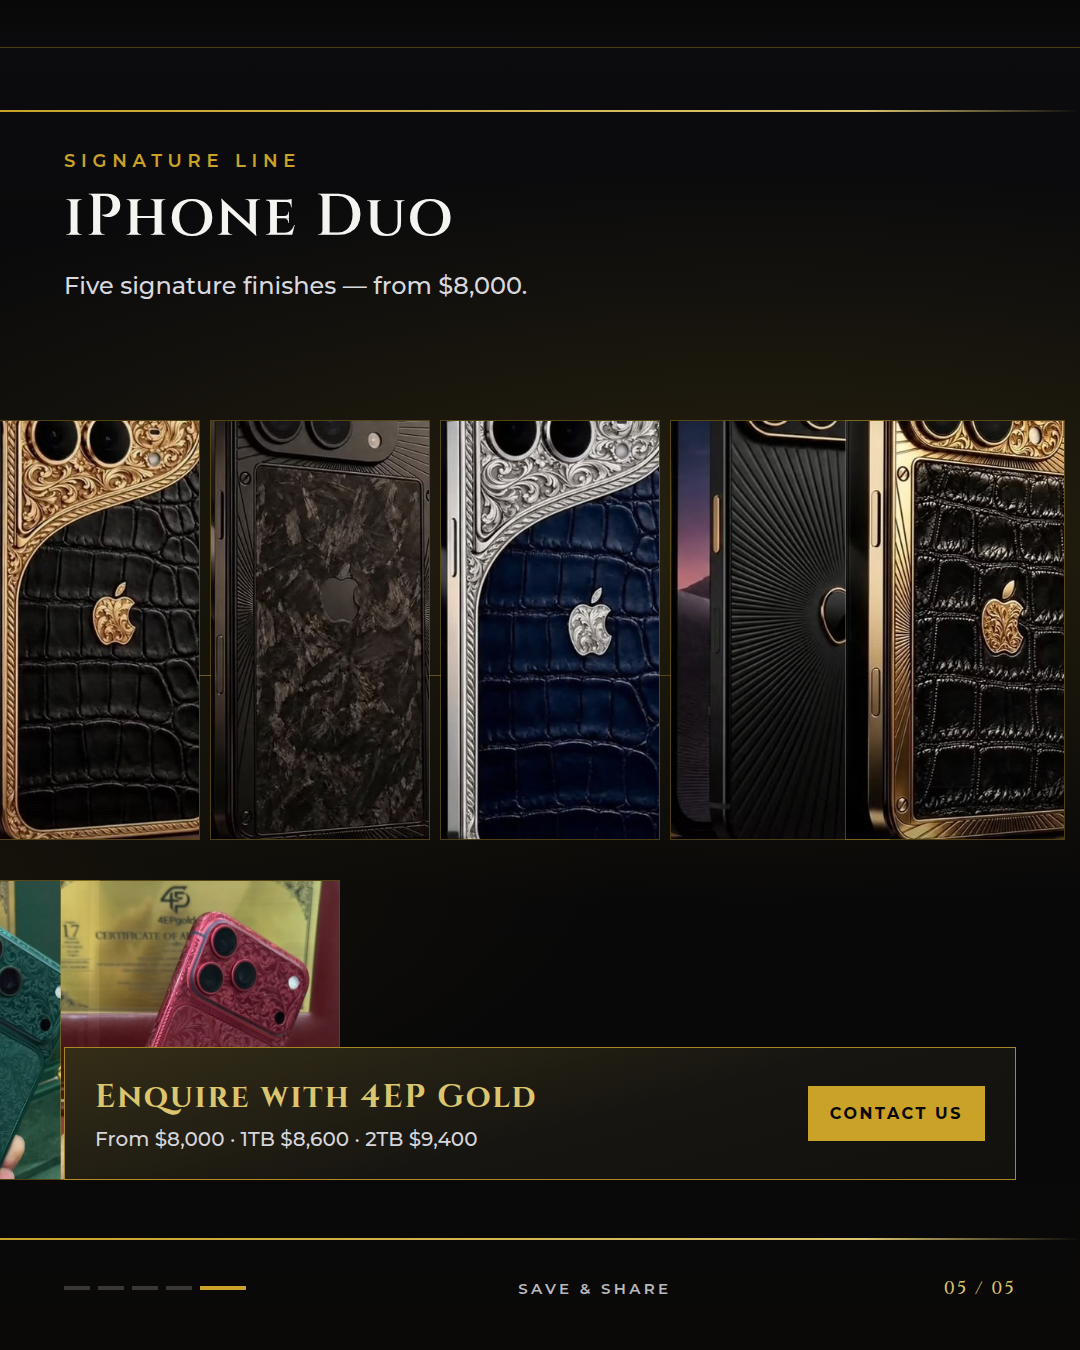
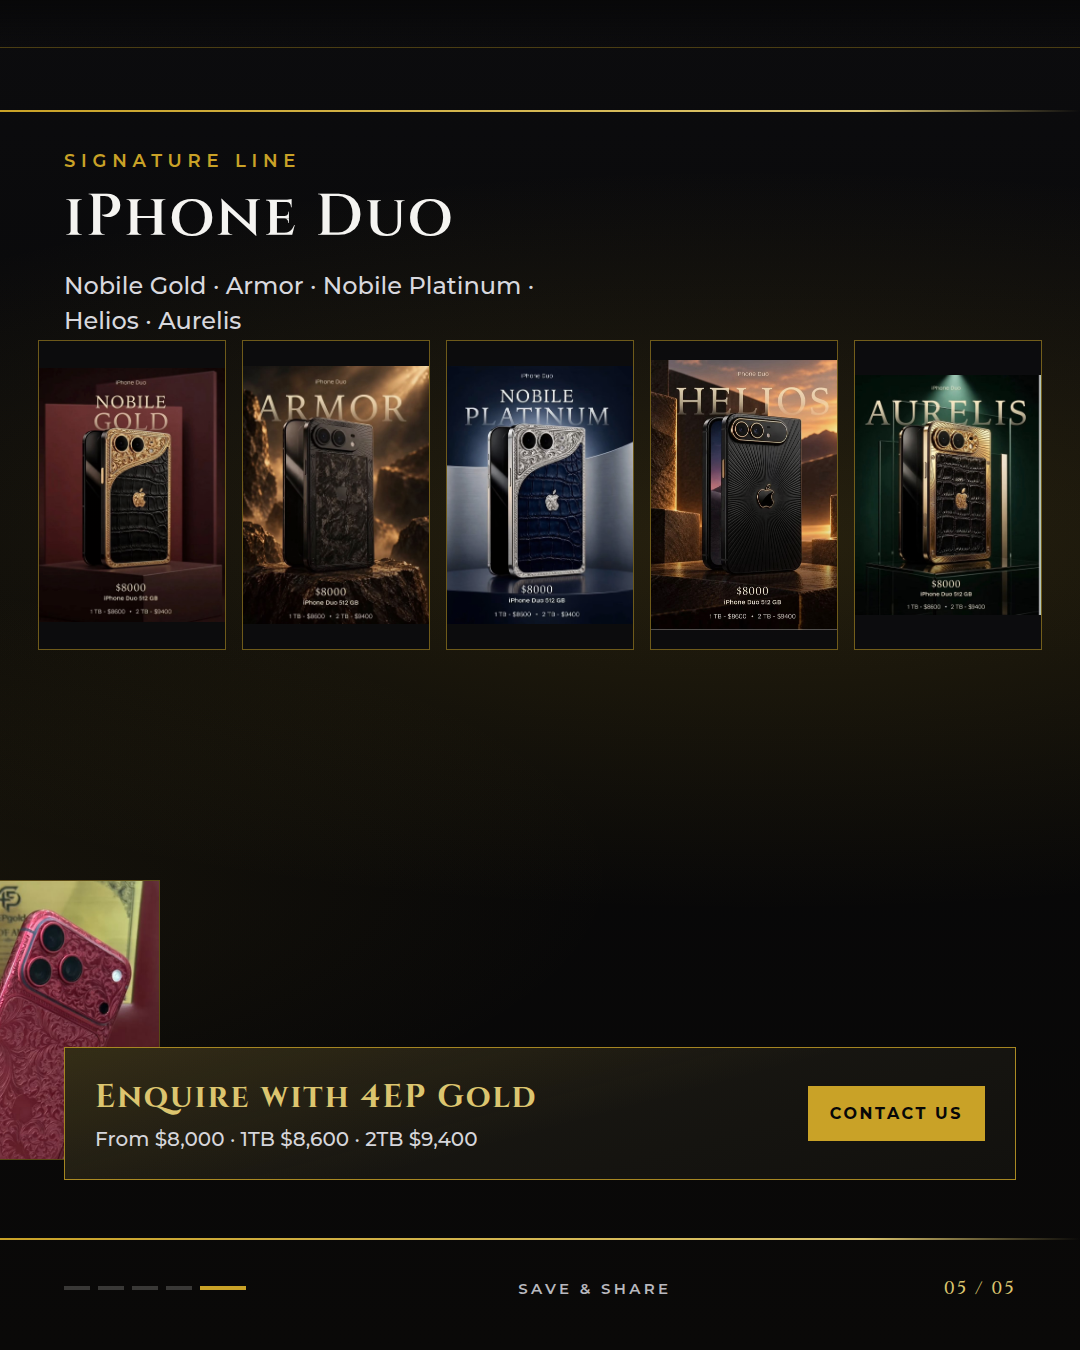
Restore full Duo posters and clear the mid gold line
Fit each Duo image with contain so posters stay whole, and stop the gold path before the Duo strip so it is no longer cut.

Changed region(s): [[0.0, 0.1867, 1.0, 0.6222], [0.0, 0.6533, 0.3361, 0.8711], [0.6417, 0.56, 0.6722, 0.6222]]

diff --git a/public/4ep-gold/instagram/slides.html b/public/4ep-gold/instagram/slides.html
@@ -173,39 +173,41 @@
       box-shadow: 0 30px 60px rgba(0,0,0,0.45);
     }
 
-    /* Duo cards continue from left of slide 5 — below title block */
+    /* Duo full posters — fit inside frames, clear of the mid gold line */
     .river .duo {
-      top: 420px;
-      width: 220px;
-      height: 420px;
-      object-fit: cover;
-      object-position: center 35%;
-      border: 1px solid rgba(201,162,39,0.35);
+      top: 340px;
+      width: 188px;
+      height: 310px;
+      object-fit: contain;
+      object-position: center center;
+      background: #0c0c0e;
+      border: 1px solid rgba(201,162,39,0.55);
+      box-sizing: border-box;
     }
-    .river .d1 { left: 4300px; }
-    .river .d2 { left: 4530px; }
-    .river .d3 { left: 4760px; }
-    .river .d4 { left: 4990px; }
-    .river .d5 { left: 5165px; opacity: 1; }
+    .river .d1 { left: 4358px; }
+    .river .d2 { left: 4562px; }
+    .river .d3 { left: 4766px; }
+    .river .d4 { left: 4970px; }
+    .river .d5 { left: 5174px; opacity: 1; }
 
-    /* Finishes stay lower so they don't fight Duo titles */
+    /* Finishes stay on slide 4 only */
     .river .finish {
       top: 880px;
-      width: 280px;
-      height: 300px;
+      width: 260px;
+      height: 280px;
       object-fit: cover;
       object-position: center 18%;
       border: 1px solid rgba(201,162,39,0.4);
     }
-    .river .f-rose { left: 3880px; }
-    .river .f-emerald { left: 4140px; }
-    .river .f-crimson { left: 4380px; }
+    .river .f-rose { left: 3680px; }
+    .river .f-emerald { left: 3950px; }
+    .river .f-crimson { left: 4220px; width: 260px; height: 280px; opacity: 1; }
 
-    /* Continuous gold path line through middle */
+    /* Mid gold line stops before Duo photos so it isn't cut */
     .flow-path {
       position: absolute;
       left: 0;
-      right: 0;
+      width: 4280px;
       top: 50%;
       height: 1px;
       background: linear-gradient(90deg,
@@ -214,8 +216,8 @@
         rgba(220,197,111,0.55) 25%,
         rgba(201,162,39,0.35) 50%,
         rgba(220,197,111,0.55) 75%,
-        rgba(201,162,39,0.35) 92%,
-        transparent);
+        rgba(201,162,39,0.25) 92%,
+        transparent 100%);
       z-index: 0;
     }
 
@@ -539,11 +541,11 @@
       <img class="finish f-rose" src="../images/rose-engraved.jpg" alt="">
       <img class="finish f-emerald" src="../images/emerald-engraved.jpg" alt="">
       <img class="finish f-crimson" src="../images/crimson-engraved.jpg" alt="">
-      <img class="duo d1" src="../images/cutouts/duo-nobile-gold-phone.jpg" alt="">
-      <img class="duo d2" src="../images/cutouts/duo-armor-phone.jpg" alt="">
-      <img class="duo d3" src="../images/cutouts/duo-nobile-platinum-phone.jpg" alt="">
-      <img class="duo d4" src="../images/cutouts/duo-helios-phone.jpg" alt="">
-      <img class="duo d5" src="../images/cutouts/duo-aurelis-phone.jpg" alt="">
+      <img class="duo d1" src="../images/duo-nobile-gold.jpg" alt="">
+      <img class="duo d2" src="../images/duo-armor.jpg" alt="">
+      <img class="duo d3" src="../images/duo-nobile-platinum.jpg" alt="">
+      <img class="duo d4" src="../images/duo-helios.jpg" alt="">
+      <img class="duo d5" src="../images/duo-aurelis.jpg" alt="">
     </div>
 
     <!-- PANEL 1 -->
@@ -620,7 +622,7 @@
     <section class="panel p5">
       <p class="eyebrow">Signature Line</p>
       <h2 class="title">iPhone Duo</h2>
-      <p class="lede">Five signature finishes — from $8,000.</p>
+      <p class="lede">Nobile Gold · Armor · Nobile Platinum · Helios · Aurelis</p>
       <div class="cta-box">
         <div>
           <h3>Enquire with 4EP Gold</h3>
